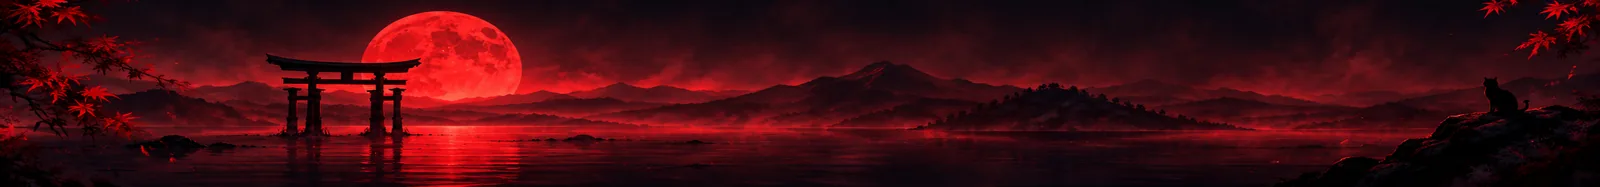
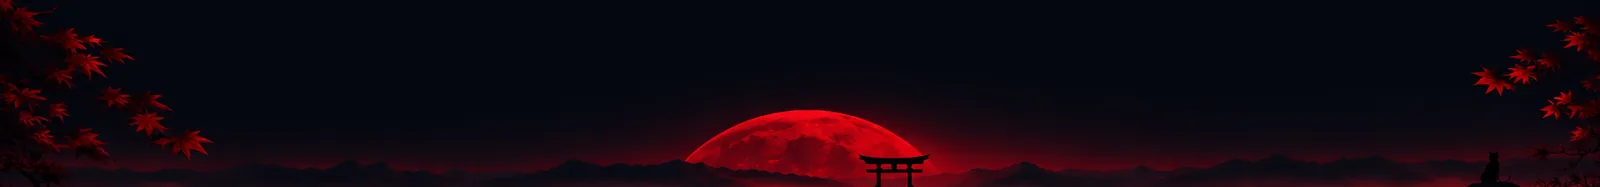
Complete the Vermilion art set, and fix a header I shipped without measuring
Five assets, 91 KB total, all embedded and verified serving from the binary:
header 9.5 KB, empty-state scene 19.7 KB, footer band 17.5 KB, maple corner
30.9 KB with real alpha, oni mask 15.3 KB.

THE HEADER WAS WRONG AND IT WAS MINE. I generated it, looked at it, thought it
was good and committed it without measuring what interface text would do on top
of it. Measured against the three zones where header text actually renders, it
gave 3.07:1 on the wordmark, 2.94:1 on the clock and 4.01:1 on the buttons,
against a 4.5 floor. Beautiful art, illegible text — the exact failure I have
been correcting in other people's work all week.

A darkening scrim was tried first and plateaued at 3.90 however hard it was
pushed, because the moon sat high in the frame and no amount of attenuation
fixes a composition problem. Re-cropping the source was tried next and could
reach 11:1, but only by discarding the torii, the ridges and the cat — a band
that passes because it contains nothing is not a win.

The real fault was the prompt. Asking for a "quiet upper two thirds" produced
art whose scenery filled the bottom 40% of a 3:1 frame, which cannot survive
being squeezed into an 8.56:1 band: every crop is either all scenery and too
bright, or all sky and empty. The regeneration specifies the horizon at 80%
down the frame with everything above it empty night sky, and that composition
survives the crop. It measures 6.39 / 8.90 / 5.58 across the three text zones
[…]

diff --git a/frontend/e2e/axe.spec.ts b/frontend/e2e/axe.spec.ts
@@ -1,0 +1,171 @@
+import { test, expect, type Page } from "@playwright/test";
+import AxeBuilder from "@axe-core/playwright";
+import * as fs from "node:fs";
+import * as path from "node:path";
+
+/**
+ * Accessibility gate.
+ *
+ * Runs @axe-core for every (appearance x visual pack) pair on the same
+ * fixture the visual gate uses — because contrast failures here are
+ * pack-specific, and the real HelloGitty defects were in the pack
+ * tokens (--pack-* rules that sit on --panel, --head and the ornament
+ * tokens), not in the shared chrome. A single run at the default
+ * appearance would have missed the azure-oni-v2 AMOLED `--rule`
+ * sitting at 1.84:1 under #000.
+ *
+ * SCOPE AND INTENT. This is REPORTING, not auto-remediation. We collect
+ * every axe violation grouped by (rule, pack+appearance), dump the full
+ * JSON so a reviewer can inspect every node, and fail the test when
+ * anything is found. No rule is silently excluded — an exclusion list
+ * is the first place a gate goes stale. If a known false positive
+ * appears, raise it as a project decision rather than quietly muting
+ * it here.
+ *
+ * TAGS. We run `wcag2a`, `wcag2aa`, `wcag21aa` and `wcag22aa`. This
+ * matches the contrast promises every pack's token documentation
+ * makes ("≥4.5:1 normal text, ≥3:1 non-text"). `best-practice` is
+ * deliberately left off: it flags opinions as violations, and the
+ * contract this is verifying is WCAG, not axe-core's style guide.
+ *
+ * ONE PROJECT. Runs under `desktop-1400` only; accessibility is not
+ * viewport-specific here (nothing reflows to hide content). If a future
+ * narrow-breakpoint change lands, add `test.skip(testInfo.project.name
+ * !== "desktop-1400" && testInfo.project.name !== "mobile-390")` and a
+ * mobile-390 pass.
+ */
+
+const APPEARANCES = ["dark", "light", "amoled"] as const;
+
+async function packsFromApp(page: Page): Promise<string[]> {
+  const html = await page.content();
+  const m = html.match(/var VISUAL_THEMES\s*=\s*\{([\s\S]*?)\};/);
+  if (!m) return [""];
+  const ids = [...m[1].matchAll(/(?:"([^"]+)"|([A-Za-z_][A-Za-z0-9_-]*))\s*:\s*\{/g)].map(
+    (x) => x[1] ?? x[2],
+  );
+  return ["", ...ids];
+}
+
+async function makeDeterministic(page: Page) {
+  await page.clock.setFixedTime(new Date("2026-11-06T12:00:00Z"));
+  await page.addInitScript(() => {
+    const noop = () => 0 as unknown as number;
+    window.setInterval = noop as typeof window.setInterval;
+    try {
+      Object.defineProperty(window.location, "reload", { value: () => {}, writable: false });
+    } catch {
+      /* fine */
+    }
+  });
+}
+
+async function applyTheme(page: Page, appearance: string, pack: string) {
+  await page.evaluate(
+    ([a, p]) => {
+      const root = document.documentElement;
+      root.dataset.theme = a;
+      if (p) root.dataset.visualTheme = p;
+      else delete root.dataset.visualTheme;
+    },
+    [appearance, pack],
+  );
+  await page.evaluate(
+    () => new Promise((r) => requestAnimationFrame(() => requestAnimationFrame(() => r(null)))),
+  );
+}
+
+/**
+ * One row per (pack, appearance, rule). Flattened so it survives a JSON
+ * dump intact; grouping is for the terminal report, not the data.
+ */
+interface Finding {
+  pack: string;
+  appearance: string;
+  rule: string;
+  impact: string;
+  help: string;
+  helpUrl: string;
+  nodeCount: number;
+  sampleTargets: string[];
+  sampleFailureSummary: string;
+}
+
+test.describe("accessibility", () => {
+  // 18 axe runs × ~2s each + page setup. Default 30s is too tight.
+  test.setTimeout(180_000);
+
+  test("every appearance and pack passes axe-core", async ({ page }, testInfo) => {
+    test.skip(testInfo.project.name !== "desktop-1400", "axe runs once, at 1400");
+
+    await makeDeterministic(page);
+    await page.goto(process.env.HG_BASE_URL ? "/" : "/dashboard.html", {
+      waitUntil: "networkidle",
+    });
+
+    const packs = await packsFromApp(page);
+    expect(packs.length, "no visual packs in the running app — gate would pass vacuously").toBeGreaterThan(1);
+
+    const findings: Finding[] = [];
+
+    for (const appearance of APPEARANCES) {
+      for (const pack of packs) {
+        await applyTheme(page, appearance, pack);
+
+        const results = await new AxeBuilder({ page })
+          .withTags(["wcag2a", "wcag2aa", "wcag21aa", "wcag22aa"])
+          .analyze();
+
+        for (const v of results.violations) {
+          findings.push({
+            pack: pack || "default",
+            appearance,
+            rule: v.id,
+            impact: v.impact ?? "unknown",
+            help: v.help,
+            helpUrl: v.helpUrl,
+            nodeCount: v.nodes.length,
+            sampleTargets: v.nodes.slice(0, 3).map((n) => n.target.join(" ")),
+            sampleFailureSummary: v.nodes[0]?.failureSummary ?? "",
+          });
+        }
+      }
+    }
+
+    // Write the full report to the test-results dir so a reviewer has every
+    // node, not just the three samples kept per finding above. The console
+    // summary is a navigator; the file is the source of truth.
+    const reportPath = path.join(testInfo.project.outputDir, "axe-report.json");
+    fs.mkdirSync(path.dirname(reportPath), { recursive: true });
+    fs.writeFileSync(reportPath, JSON.stringify(findings, null, 2));
+
+    // Console grouping. By rule first (because a rule is a defect class
+    // regardless of pack), then by pack within. Reviewers look at this
+    // before opening the JSON.
+    if (findings.length > 0) {
+      const byRule = new Map<string, Finding[]>();
+      for (const f of findings) {
+        const arr = byRule.get(f.rule) ?? [];
+        arr.push(f);
+        byRule.set(f.rule, arr);
+      }
+      const lines: string[] = ["", `axe violations: ${findings.length} (grouped by rule)`];
+      for (const [rule, fs2] of [...byRule.entries()].sort((a, b) => b[1].length - a[1].length)) {
+        lines.push(`  [${fs2[0].impact}] ${rule} — ${fs2[0].help}  (${fs2[0].helpUrl})`);
+        for (const f of fs2) {
+          lines.push(
+            `    ${f.pack}/${f.appearance}: ${f.nodeCount} node${f.nodeCount === 1 ? "" : "s"}` +
+              (f.sampleTargets.length ? ` — ${f.sampleTargets.join(" | ")}` : ""),
+          );
+        }
+      }
+      lines.push("", `full JSON: ${reportPath}`);
+      console.log(lines.join("\n"));
+    }
+
+    expect(
+      findings,
+      `axe found ${findings.length} violation(s); see ${reportPath}`,
+    ).toHaveLength(0);
+  });
+});

diff --git a/frontend/e2e/modes.spec.ts b/frontend/e2e/modes.spec.ts
@@ -1,0 +1,122 @@
+import { test, expect, type Page } from "@playwright/test";
+
+/**
+ * Media-mode visual gate — prefers-reduced-motion and forced-colors.
+ *
+ * Why these two and not every media feature: both are low-friction for a
+ * user to set, both override the pack's own CSS, and both have already
+ * been (or nearly been) sources of real shipped defects.
+ *
+ *   forced-colors: active
+ *     We shipped a focus ring built from box-shadow. forced-colors paints
+ *     a system-foreground solid everywhere and does NOT paint box-shadows
+ *     at all, so keyboard focus vanished entirely. A capture would have
+ *     caught it. It stays caught here.
+ *
+ *   prefers-reduced-motion: reduce
+ *     Several packs add motion to ornament (lantern flicker, bauble
+ *     rotation, grain shimmer). A pack that honours the setting looks
+ *     the same before and after; a pack that does not keeps animating.
+ *     The capture is the first frame after `animations: "disabled"` has
+ *     been applied, so a correctly reduced pack diffs clean and an
+ *     unreduced one shows the mid-animation art the ornament wanted to
+ *     start with — which itself is the signal.
+ *
+ * SCOPE. Dark appearance only, every pack. Under forced-colors the
+ * appearance is largely moot (system colours override the theme);
+ * under reduced-motion appearance has no effect on whether an animation
+ * is active. Running the full 3×6 matrix here would triple the PNG
+ * weight for no additional defect class.
+ *
+ * At desktop-1400 only — media-mode defects do not reflow.
+ */
+
+const PACKS_RE = /var VISUAL_THEMES\s*=\s*\{([\s\S]*?)\};/;
+
+async function packsFromApp(page: Page): Promise<string[]> {
+  const html = await page.content();
+  const m = html.match(PACKS_RE);
+  if (!m) return [""];
+  const ids = [...m[1].matchAll(/(?:"([^"]+)"|([A-Za-z_][A-Za-z0-9_-]*))\s*:\s*\{/g)].map(
+    (x) => x[1] ?? x[2],
+  );
+  return ["", ...ids];
+}
+
+async function makeDeterministic(page: Page) {
+  await page.clock.setFixedTime(new Date("2026-11-06T12:00:00Z"));
+  await page.addInitScript(() => {
+    const noop = () => 0 as unknown as number;
+    window.setInterval = noop as typeof window.setInterval;
+    try {
+      Object.defineProperty(window.location, "reload", { value: () => {}, writable: false });
+    } catch {
+      /* fine */
+    }
+  });
+}
+
+async function applyPack(page: Page, pack: string) {
+  await page.evaluate((p) => {
+    const root = document.documentElement;
+    root.dataset.theme = "dark";
+    if (p) root.dataset.visualTheme = p;
+    else delete root.dataset.visualTheme;
+  }, pack);
+  await page.evaluate(
+    () => new Promise((r) => requestAnimationFrame(() => requestAnimationFrame(() => r(null)))),
+  );
+}
+
+function volatileRegions(page: Page) {
+  return [
+    page.locator(".statrail .stat-fig"),
+    page.locator(".hclock"),
+    page.locator("[data-rail='api']"),
+  ];
+}
+
+test.describe("media-mode baselines", () => {
+  test("every pack under prefers-reduced-motion and forced-colors", async ({
+    page,
+  }, testInfo) => {
+    test.skip(testInfo.project.name !== "desktop-1400", "media-mode captures run at 1400 only");
+
+    await makeDeterministic(page);
+    await page.goto(process.env.HG_BASE_URL ? "/" : "/dashboard.html", {
+      waitUntil: "networkidle",
+    });
+
+    const packs = await packsFromApp(page);
+    expect(packs.length).toBeGreaterThan(1);
+
+    const failures: string[] = [];
+
+    for (const mode of ["reduced-motion", "forced-colors"] as const) {
+      if (mode === "reduced-motion") {
+        await page.emulateMedia({ reducedMotion: "reduce" });
+      } else {
+        await page.emulateMedia({ forcedColors: "active" });
+      }
+
+      for (const pack of packs) {
+        await applyPack(page, pack);
+        const name = `dashboard-${mode}-${pack || "default"}.png`;
+        try {
+          await expect(page).toHaveScreenshot(name, {
+            fullPage: false,
+            mask: volatileRegions(page),
+            maskColor: "#ff00ff",
+          });
+        } catch (e) {
+          failures.push(`${mode}/${pack || "default"}: ${(e as Error).message.split("\n")[0]}`);
+        }
+      }
+
+      // Reset for the next iteration so the two media features don't stack.
+      await page.emulateMedia({ reducedMotion: "no-preference", forcedColors: "none" });
+    }
+
+    expect(failures, `media-mode regressions:\n  ${failures.join("\n  ")}`).toHaveLength(0);
+  });
+});

diff --git a/frontend/e2e/visual.spec.ts b/frontend/e2e/visual.spec.ts
@@ -102,16 +102,61 @@ test.describe("dashboard visual baseline", () => {
     const packs = await packsFromApp(page);
     expect(packs.length, "no visual packs found in the running app — the gate would pass vacuously").toBeGreaterThan(1);
 
+    // VIEWPORT CAPTURE STRATEGY — the "option B" argument, decided here.
+    //
+    // At 1400 we baseline the full page: every pack defect in this project's
+    // history landed either in the chrome (header, stat rail, panel edges) or
+    // across the panel bodies, and the full capture catches both. At narrower
+    // viewports we baseline the CHROME REGION only (`.site-head` + first stat
+    // rail) and skip the body. The reasoning:
+    //
+    //   - All real defects so far lived in pack art, which is painted on the
+    //     chrome. Body pixels are Go-template output and are already covered
+    //     by 186 Go tests; running their PNGs at four widths adds no defect
+    //     class the chrome capture misses.
+    //   - Full-page captures at all four widths would put ~15 MB into VCS
+    //     (18 × 4, variably sized) and triple the suite's commit churn
+    //     every time a pack changes. Chrome regions at 1280/1024/390 add
+    //     ~4 MB total (chrome strip is ~180px tall × 3 widths × 18 packs)
+    //     and only churn when the chrome itself moves — which is exactly
+    //     what we want this gate to tell us about.
+    //   - "Layout assertions only" at the narrow viewports (option C) would
+    //     let a pack whose ornament clips wrong on a narrow header pass
+    //     silently — the whole point of the gate is that structure assertions
+    //     cannot catch that class.
+    //
+    // Trade-off we accept: a panel-body pack defect that only appears at
+    // narrow widths is uncaught. If one ships, that is the point to add a
+    // second region or full baseline at that width.
+    const isFullPage = testInfo.project.name === "desktop-1400";
+
     for (const appearance of APPEARANCES) {
       for (const pack of packs) {
         await applyTheme(page, appearance, pack);
         const name = `dashboard-${appearance}-${pack || "default"}-${testInfo.project.name}.png`;
         try {
-          await expect(page).toHaveScreenshot(name, {
-            fullPage: false,
-            mask: volatileRegions(page),
-            maskColor: "#ff00ff",
-          });
+          if (isFullPage) {
+            await expect(page).toHaveScreenshot(name, {
+              fullPage: false,
+              mask: volatileRegions(page),
+              maskColor: "#ff00ff",
+            });
+          } else {
+            // Chrome region: header band + stat rail. `.site-head` is
+            // position: sticky, which means the capture pulls the pinned
+            // version at scroll 0; the rail sits immediately beneath it.
+            // Capture both as one bounding rect by taking a locator that
+            // wraps `main > *:first-of-type`... but the actual markup has
+            // the rail at the top of the dashboard page's body, so we
+            // clip to the viewport's top 480px which safely contains
+            // both without depending on markup internals that may move.
+            await expect(page).toHaveScreenshot(name, {
+              fullPage: false,
+              clip: { x: 0, y: 0, width: testInfo.project.use.viewport!.width, height: 480 },
+              mask: volatileRegions(page),
+              maskColor: "#ff00ff",
+            });
+          }
         } catch (e) {
           // Collect rather than bail, so one capture does not hide the other
           // seventeen. A gate that reports the first failure only is a gate you
